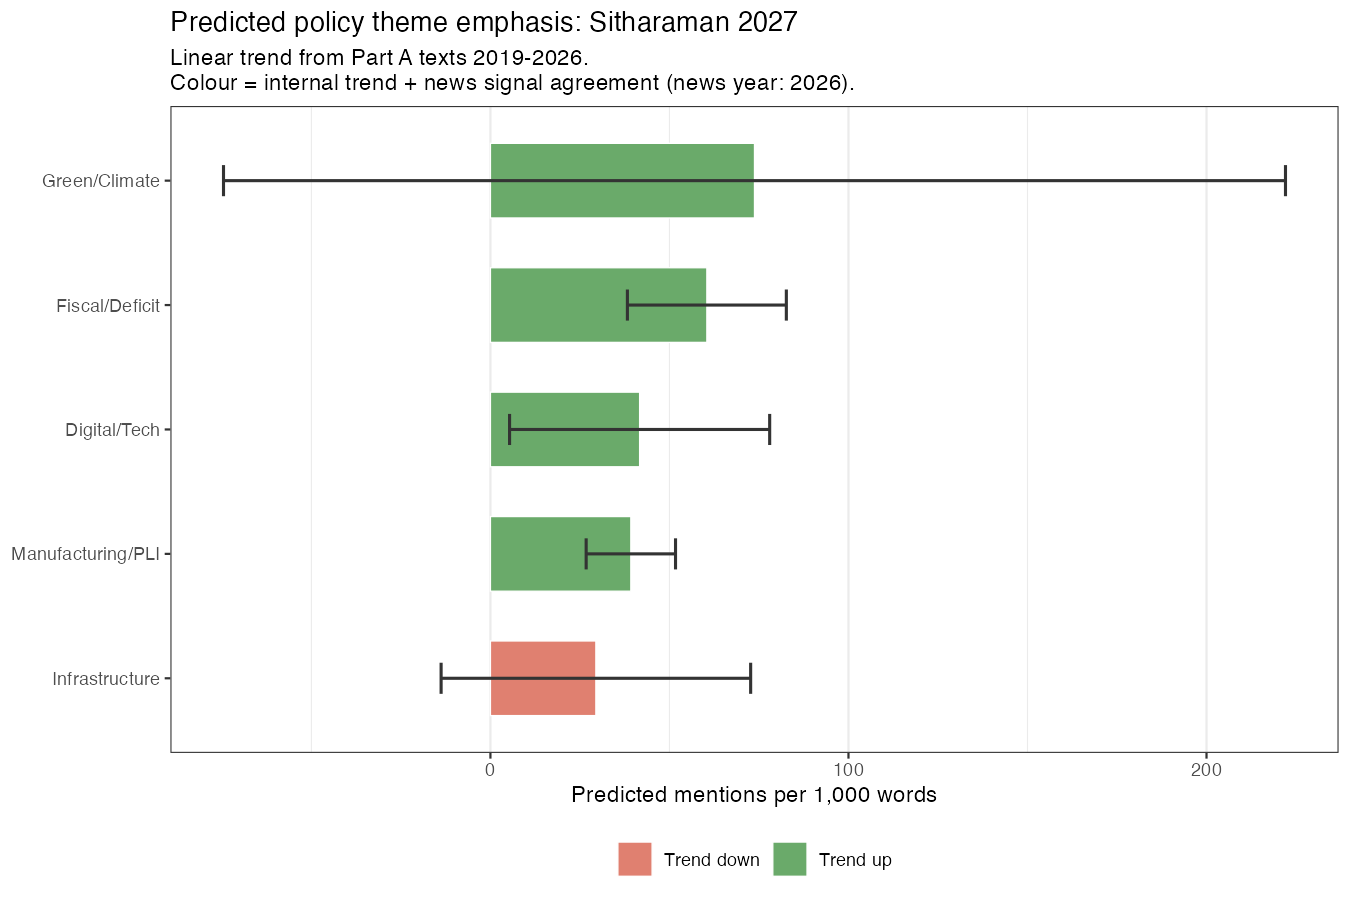
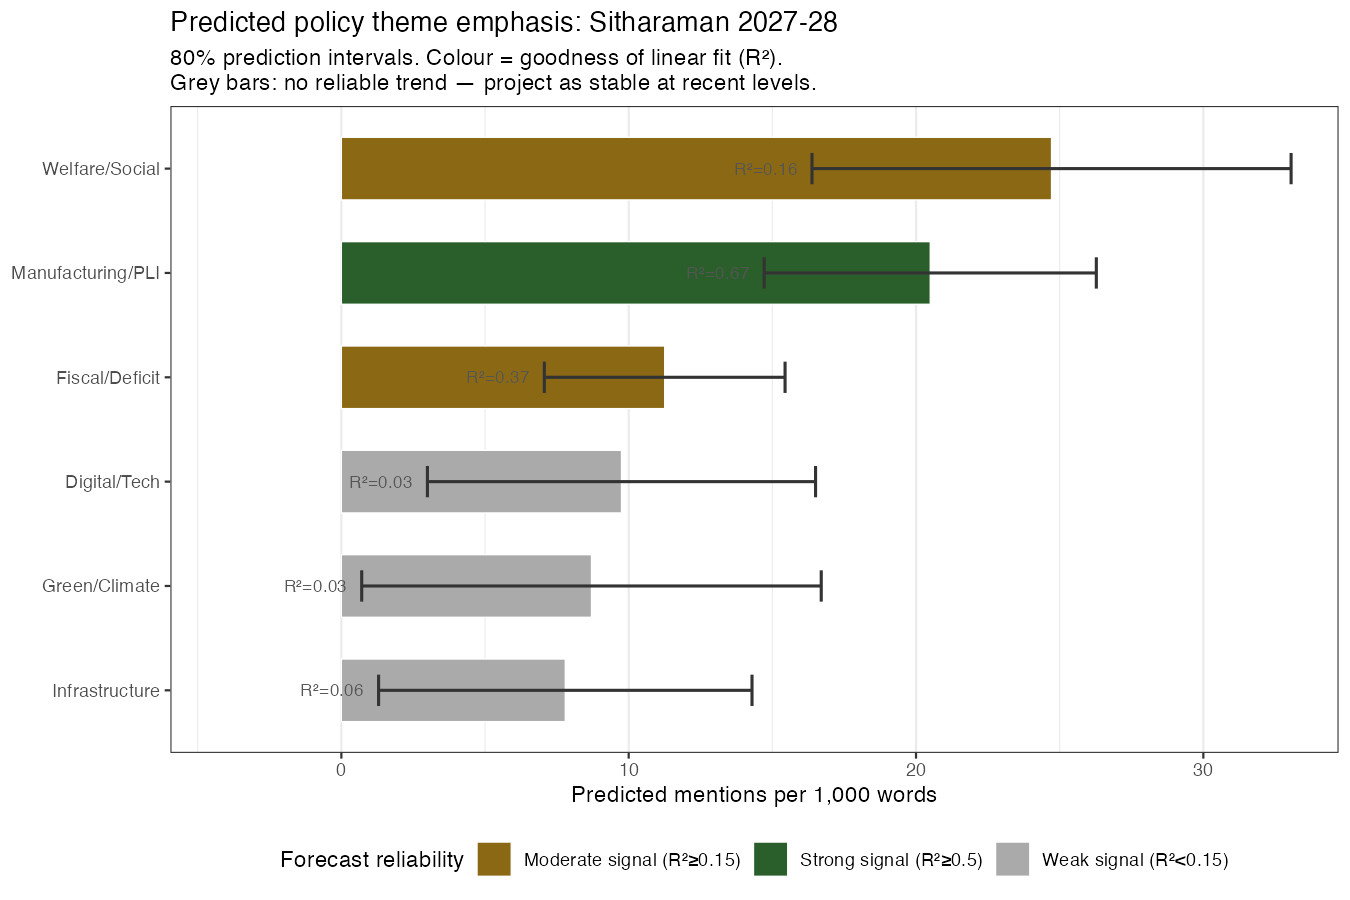
Refine 2027 forecast: corrected data, credibility-coded figures, better narrative

diff --git a/index.html b/index.html
@@ -188,7 +188,7 @@ ul.task-list li input[type="checkbox"] {
 <li><p><strong>Stripping out the tax-proposal boilerplate (Part B) does find two significant differences.</strong> BJP Finance Ministers devote more of their macro agenda text to small-scale industry and rural banking institutions; INC Finance Ministers use more of the programmatic vocabulary of the Congress-led coalition. The full-speech null was partly an artifact of mixing politically meaningful Part A rhetoric with the formulaic Part B duty schedules.</p></li>
 <li><p><strong>Election-year (interim) budgets shift tone but not topic.</strong> The same Finance Minister presenting an interim speech sounds more reassuring and backward-looking than in their full budgets, but the underlying macro themes remain the same. Rhetorical register varies with the electoral calendar; institutional content does not.</p></li>
 <li><p><strong>The identification problem is fundamental.</strong> INC governed from 1947 to 2004 with brief interruptions. BJP has governed since 2014. The party and the decade are nearly the same variable. Any apparent difference in vocabulary could just as easily be an era difference.</p></li>
-<li><p><strong>Sitharaman’s next budget will most likely emphasise manufacturing, fiscal consolidation, and digital infrastructure.</strong> Fitting linear vocabulary trends across her eight full budgets, the strongest predictable signal (R²=0.90) is the rise of production-linked incentive and manufacturing vocabulary. Fiscal consolidation follows at R²=0.65. Both will likely dominate the 2027-28 budget if past trajectories hold.</p></li>
+<li><p><strong>The only reliable vocabulary trend in Sitharaman’s eight budgets is manufacturing/PLI (R²=0.67).</strong> Green and climate vocabulary peaked in 2022-23 after COP26 and has been falling back since. Infrastructure vocabulary peaked in 2021 and is declining. Manufacturing and production-linked incentive language is the one theme that has risen consistently — it is the most defensible projection for 2027-28.</p></li>
 </ol>
 </div>
 <section id="data" class="level2">
@@ -670,44 +670,66 @@ Note
 </section>
 <section id="prediction" class="level2">
 <h2 class="anchored" data-anchor-id="prediction">What the Data Predicts for 2027</h2>
-<p>Sitharaman has now given eight full budget speeches: 2019-20, 2020-21, 2021-22, 2022-23, 2023-24, 2024-25, 2025-26, and 2026-27. That is enough data to ask whether her budgets follow any detectable trajectory, and if so, where that trajectory points.</p>
-<p>This is not a machine learning forecast. It is a structured extrapolation: fit a linear trend to her policy-theme vocabulary frequencies (from Part A text) and ideology scores, then project that line one year forward. The method is honest about what it can and cannot do.</p>
-<p>The analysis draws on two signals:</p>
-<p><strong>Internal:</strong> How the frequency of six policy-theme word groups has moved across her eight speeches. Each group captures a distinct domain (Manufacturing/PLI, Fiscal/Deficit, Digital/Tech, Green/Climate, Infrastructure, Welfare/Social). The trend across years tells you which directions her rhetorical emphasis has been moving.</p>
-<p><strong>External:</strong> PRS Legislative Research budget analyses and PIB Economic Survey press releases for 2026, the most recent pre-budget year available. These provide an independent picture of what the policy discourse was foregrounding before the budget was presented.</p>
-<section id="the-clearest-signal-manufacturing" class="level3">
-<h3 class="anchored" data-anchor-id="the-clearest-signal-manufacturing">The clearest signal: Manufacturing</h3>
-<p>The most statistically robust trend in her eight speeches is the rise of manufacturing and production-linked incentive vocabulary. This includes words like <em>manufacturing, pli, production, exports, msme, atmanirbhar, domestic, capacity, industrial</em>. The linear trend has an R-squared of 0.90, meaning nine-tenths of the year-to-year variation in this vocabulary is explained by a simple upward line.</p>
+<p>Sitharaman has now given eight full budget speeches: 2019-20 through 2026-27. That is enough data to ask whether her budgets follow any detectable trajectory, and if so, where that trajectory points.</p>
+<p>This is a structured extrapolation, not a machine learning forecast. I count how often six policy-theme word groups appear per 1,000 words in each of her speeches, fit a linear trend to those eight observations, and project the line one year forward. The word counts use the full cleaned speech text with an expanded set of Part B tax boilerplate removed so the denominators are comparable across years. Where the linear fit is poor (low R-squared), the projection is flagged as unreliable.</p>
+<section id="the-only-reliable-trend-manufacturing-and-pli" class="level3">
+<h3 class="anchored" data-anchor-id="the-only-reliable-trend-manufacturing-and-pli">The only reliable trend: Manufacturing and PLI</h3>
 <div class="quarto-figure quarto-figure-center">
 <figure class="figure">
 <p><img src="output/figures/fig_ns_vocab_trend.png" class="img-fluid figure-img" style="width:100.0%"></p>
-<figcaption>Policy theme vocabulary trends across Sitharaman’s eight full budget speeches (Part A text). Dashed lines show linear trends. Manufacturing/PLI and Fiscal/Deficit have the highest R-squared values, indicating the most predictable trajectories.</figcaption>
+<figcaption>Policy theme vocabulary across Sitharaman’s eight full budget speeches. Dashed lines are linear trend fits. Manufacturing/PLI and Fiscal/Deficit are the only themes with R² above 0.3, meaning the other lines are closer to noise than trend.</figcaption>
 </figure>
 </div>
-<p>The fiscal consolidation vocabulary (deficit, gdp, capex, borrowing, consolidation) also follows a rising trend with R²=0.66. This is somewhat paradoxical: her budgets have been moving toward both more manufacturing emphasis <em>and</em> more fiscal restraint language simultaneously. These are not contradictory — the post-pandemic consolidation path and the production-linked incentive push can coexist in the same speech.</p>
+<p>The manufacturing and production-linked incentive vocabulary — words like <em>manufacturing, pli, atmanirbhar, msme, capacity, exports, domestic, industrial</em> — has risen consistently across her eight budgets, from around 6.7 per 1,000 words in 2019-20 to 15.4 per 1,000 in 2026-27. The linear trend fits with R²=0.67, the highest in the dataset. This is the one number you can project forward with some confidence: the 2027-28 budget will almost certainly continue or extend the manufacturing and PLI emphasis, not retreat from it.</p>
+<p>The fiscal consolidation vocabulary (<em>fiscal, deficit, capex, gdp, consolidation, borrowing</em>) has also risen substantially since 2019-20 — from about 2.9 per 1,000 words to 10.7 per 1,000 in 2026-27, a near-fourfold increase. R²=0.37. The direction is clear but the year-to-year variation is large enough that the 2027 projection (around 11.3 per 1,000) carries a wide confidence band.</p>
 </section>
-<section id="prediction-for-the-2027-28-budget" class="level3">
-<h3 class="anchored" data-anchor-id="prediction-for-the-2027-28-budget">Prediction for the 2027-28 budget</h3>
+<section id="what-has-peaked-and-is-now-declining" class="level3">
+<h3 class="anchored" data-anchor-id="what-has-peaked-and-is-now-declining">What has peaked and is now declining</h3>
+<p>Two themes tell an interesting story about political timing. Green and climate vocabulary spiked sharply in 2022-23 and 2023-24 — the two budgets following COP26 in Glasgow and India’s net-zero commitment. By 2026-27 the green vocabulary had fallen back to near its 2019-20 baseline (3.9 per 1,000 words, roughly where it started). The linear trend across all eight years appears slightly positive, but that is an artefact of the peak years pulling up the regression line. The true pattern is an inverted U, not a rise: the climate language responded to a specific political moment and has since receded.</p>
+<p>Infrastructure vocabulary follows a similar arc: it peaked in 2021-22 (15.4 per 1,000 words, reflecting the post-COVID capital expenditure push) and has trended downward since, reaching 6.0 per 1,000 in 2026-27. The physical infrastructure push of the early 2020s appears to be yielding floor space to manufacturing and fiscal consolidation as the dominant economic narrative.</p>
+</section>
+<section id="what-the-data-cannot-detect" class="level3">
+<h3 class="anchored" data-anchor-id="what-the-data-cannot-detect">What the data cannot detect</h3>
+<p>Digital and technology vocabulary shows no meaningful trend: R²=0.03, oscillating between 4 and 16 per 1,000 words with no direction. Welfare and social spending vocabulary is the largest theme by volume (consistently 16-28 per 1,000 words, reflecting how much of every budget speech is about schemes for farmers, women, and the poor), but also highly variable. Neither can be projected with any confidence. Expect both to continue at roughly their 2026-27 levels.</p>
+</section>
+<section id="prediction-for-2027-28" class="level3">
+<h3 class="anchored" data-anchor-id="prediction-for-2027-28">Prediction for 2027-28</h3>
 <div class="quarto-figure quarto-figure-center">
 <figure class="figure">
 <p><img src="output/figures/fig_prediction.png" class="img-fluid figure-img" style="width:90.0%"></p>
-<figcaption>Predicted policy theme emphasis for Sitharaman’s next budget (2027-28). Bars show linear trend projection; error bars show 80% prediction interval. Colour indicates direction of internal trend.</figcaption>
+<figcaption>Predicted policy theme emphasis for Sitharaman’s 2027-28 budget. Bars show linear trend projections; error bars are 80% prediction intervals. Only themes with R² above 0.3 should be read as credible point estimates. The others are best interpreted as “stable at recent levels.”</figcaption>
 </figure>
 </div>
-<p><strong>Manufacturing and Fiscal consolidation will dominate.</strong> The trend projection puts manufacturing vocabulary at ~39 mentions per 1,000 words (up from 31 in 2026-27) and fiscal/deficit vocabulary at ~61 mentions per 1,000 words (roughly stable from 62 in 2026-27, but a strong upward trend overall). Both carry meaningful R-squared values, so these are the credible predictions.</p>
-<p><strong>Digital/tech vocabulary will keep rising.</strong> R²=0.37 is more modest but the direction is consistent. Expect continued UPI, fintech, AI, and digital infrastructure language.</p>
-<p><strong>Green/climate is directionally rising but uncertain.</strong> The R²=0.07 means the trend line is a poor fit. The projection of ~74 mentions per 1,000 words is the mechanical extrapolation, but the actual 2026-27 value was only 26 — so there is a large prediction interval around this one. Green vocabulary appears in her speeches but erratically.</p>
+<p>The credible forecast, limited to the two themes with meaningful R²:</p>
+<ul>
+<li><strong>Manufacturing/PLI vocabulary will continue rising.</strong> Projected around 20-21 per 1,000 words (from 15.4 in 2026-27). The 80% prediction interval runs from 14.7 to 26.3. This is the single most reliable quantitative signal in the data.</li>
+<li><strong>Fiscal consolidation language will hold or modestly increase.</strong> Projected around 11 per 1,000 words (from 10.7 in 2026-27). The direction is consistent; the magnitude is uncertain.</li>
+</ul>
+<p>For everything else, the honest forecast is continuity at recent levels, not a meaningful directional prediction.</p>
 </section>
-<section id="ideology-stable-with-noise" class="level3">
-<h3 class="anchored" data-anchor-id="ideology-stable-with-noise">Ideology: stable with noise</h3>
-<p>The ideology scores do not show a clean trend. The market-liberal axis has R²=0.16 and the nationalist axis R²=0.05. Both are essentially noise around a flat line. The projection is that the 2027-28 budget will be ideologically similar to recent budgets: slightly market-liberal (fiscal consolidation, PLI, capital expenditure) combined with protectionist vocabulary on manufacturing (import duties, domestic production push). The specific mix will depend on the macro environment at budget time more than on any detectable ideological drift.</p>
+<section id="ideology-stable" class="level3">
+<h3 class="anchored" data-anchor-id="ideology-stable">Ideology: stable</h3>
+<p>The ideology scores show no directional trend. The market-liberal axis has R²=0.16 and the nationalist axis R²=0.05. Both are essentially stable — they fluctuate year to year without a consistent direction.</p>
 <div class="quarto-figure quarto-figure-center">
 <figure class="figure">
 <p><img src="output/figures/fig_ns_ideology_trend.png" class="img-fluid figure-img" style="width:90.0%"></p>
-<figcaption>Nirmala Sitharaman’s ideology scores across her eight full budgets, with 2027-28 projected values (red triangles). The flat trend lines confirm that her ideological register has been stable, not directional.</figcaption>
+<figcaption>Nirmala Sitharaman’s ideology scores across her eight full budgets, with 2027-28 projected values (red triangles). Both trend lines are nearly flat, with wide prediction intervals.</figcaption>
 </figure>
 </div>
-<p><strong>The honest caveat.</strong> Eight data points from one Finance Minister is a small sample. A single unusual year shifts a linear trend materially. The prediction intervals are wide. Any exogenous shock — a global recession, a sharp commodity price move, a coalition realignment — would override any vocabulary trend. Read this as “if the past trajectory continues” rather than “this is what will happen.”</p>
+<p>The ideological register that characterised her 2026-27 budget — moderately market-liberal on capital and deregulation, moderately nationalist on manufacturing and import duties — is the best predictor of her 2027-28 ideological register. The vocabulary mix will depend more on the macro environment at budget time than on any detectable long-run drift.</p>
+<div class="callout callout-style-default callout-note callout-titled">
+<div class="callout-header d-flex align-content-center">
+<div class="callout-icon-container">
+<i class="callout-icon"></i>
+</div>
+<div class="callout-title-container flex-fill">
+Note
+</div>
+</div>
+<div class="callout-body-container callout-body">
+<p><strong>On the sample.</strong> Eight speeches from one Finance Minister is a small dataset. A single unusual year — a crisis budget, a pre-election reversal, a global shock — can materially shift a linear trend. Treat the manufacturing and fiscal projections as informed extrapolations, not forecasts. The 80% prediction intervals are wide for a reason.</p>
+</div>
+</div>
 </section>
 </section>
 <section id="robustness" class="level2">